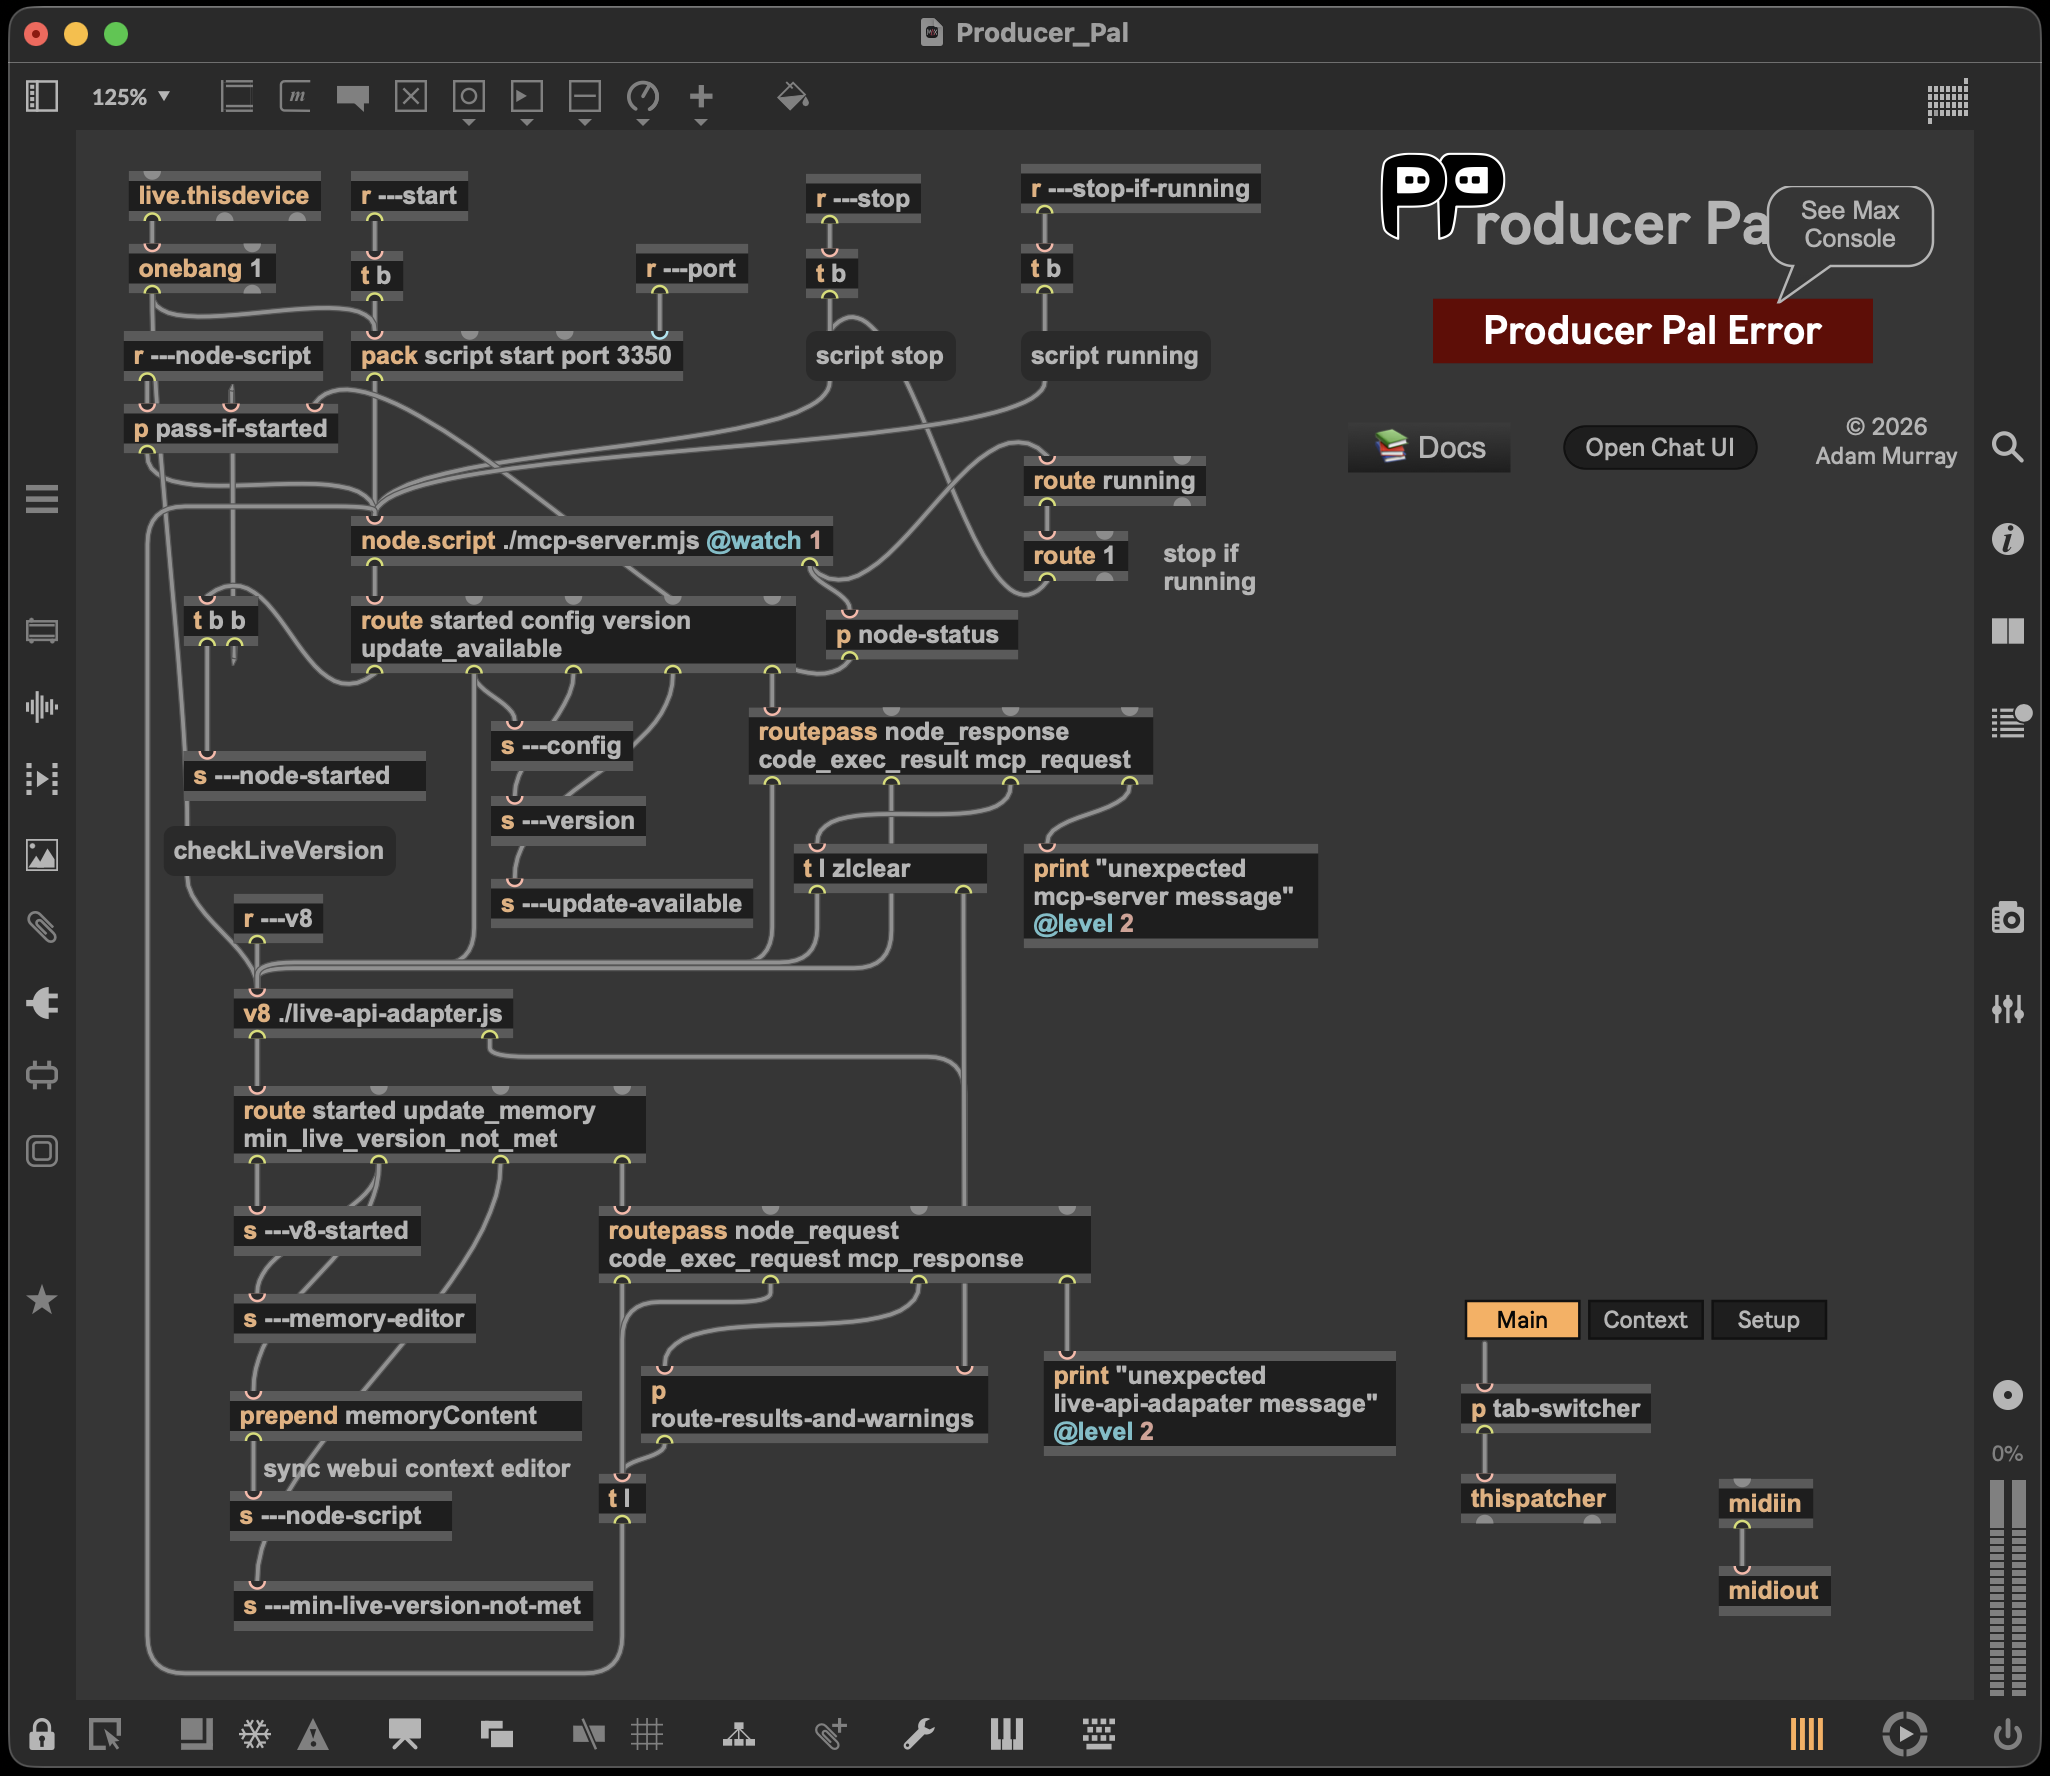
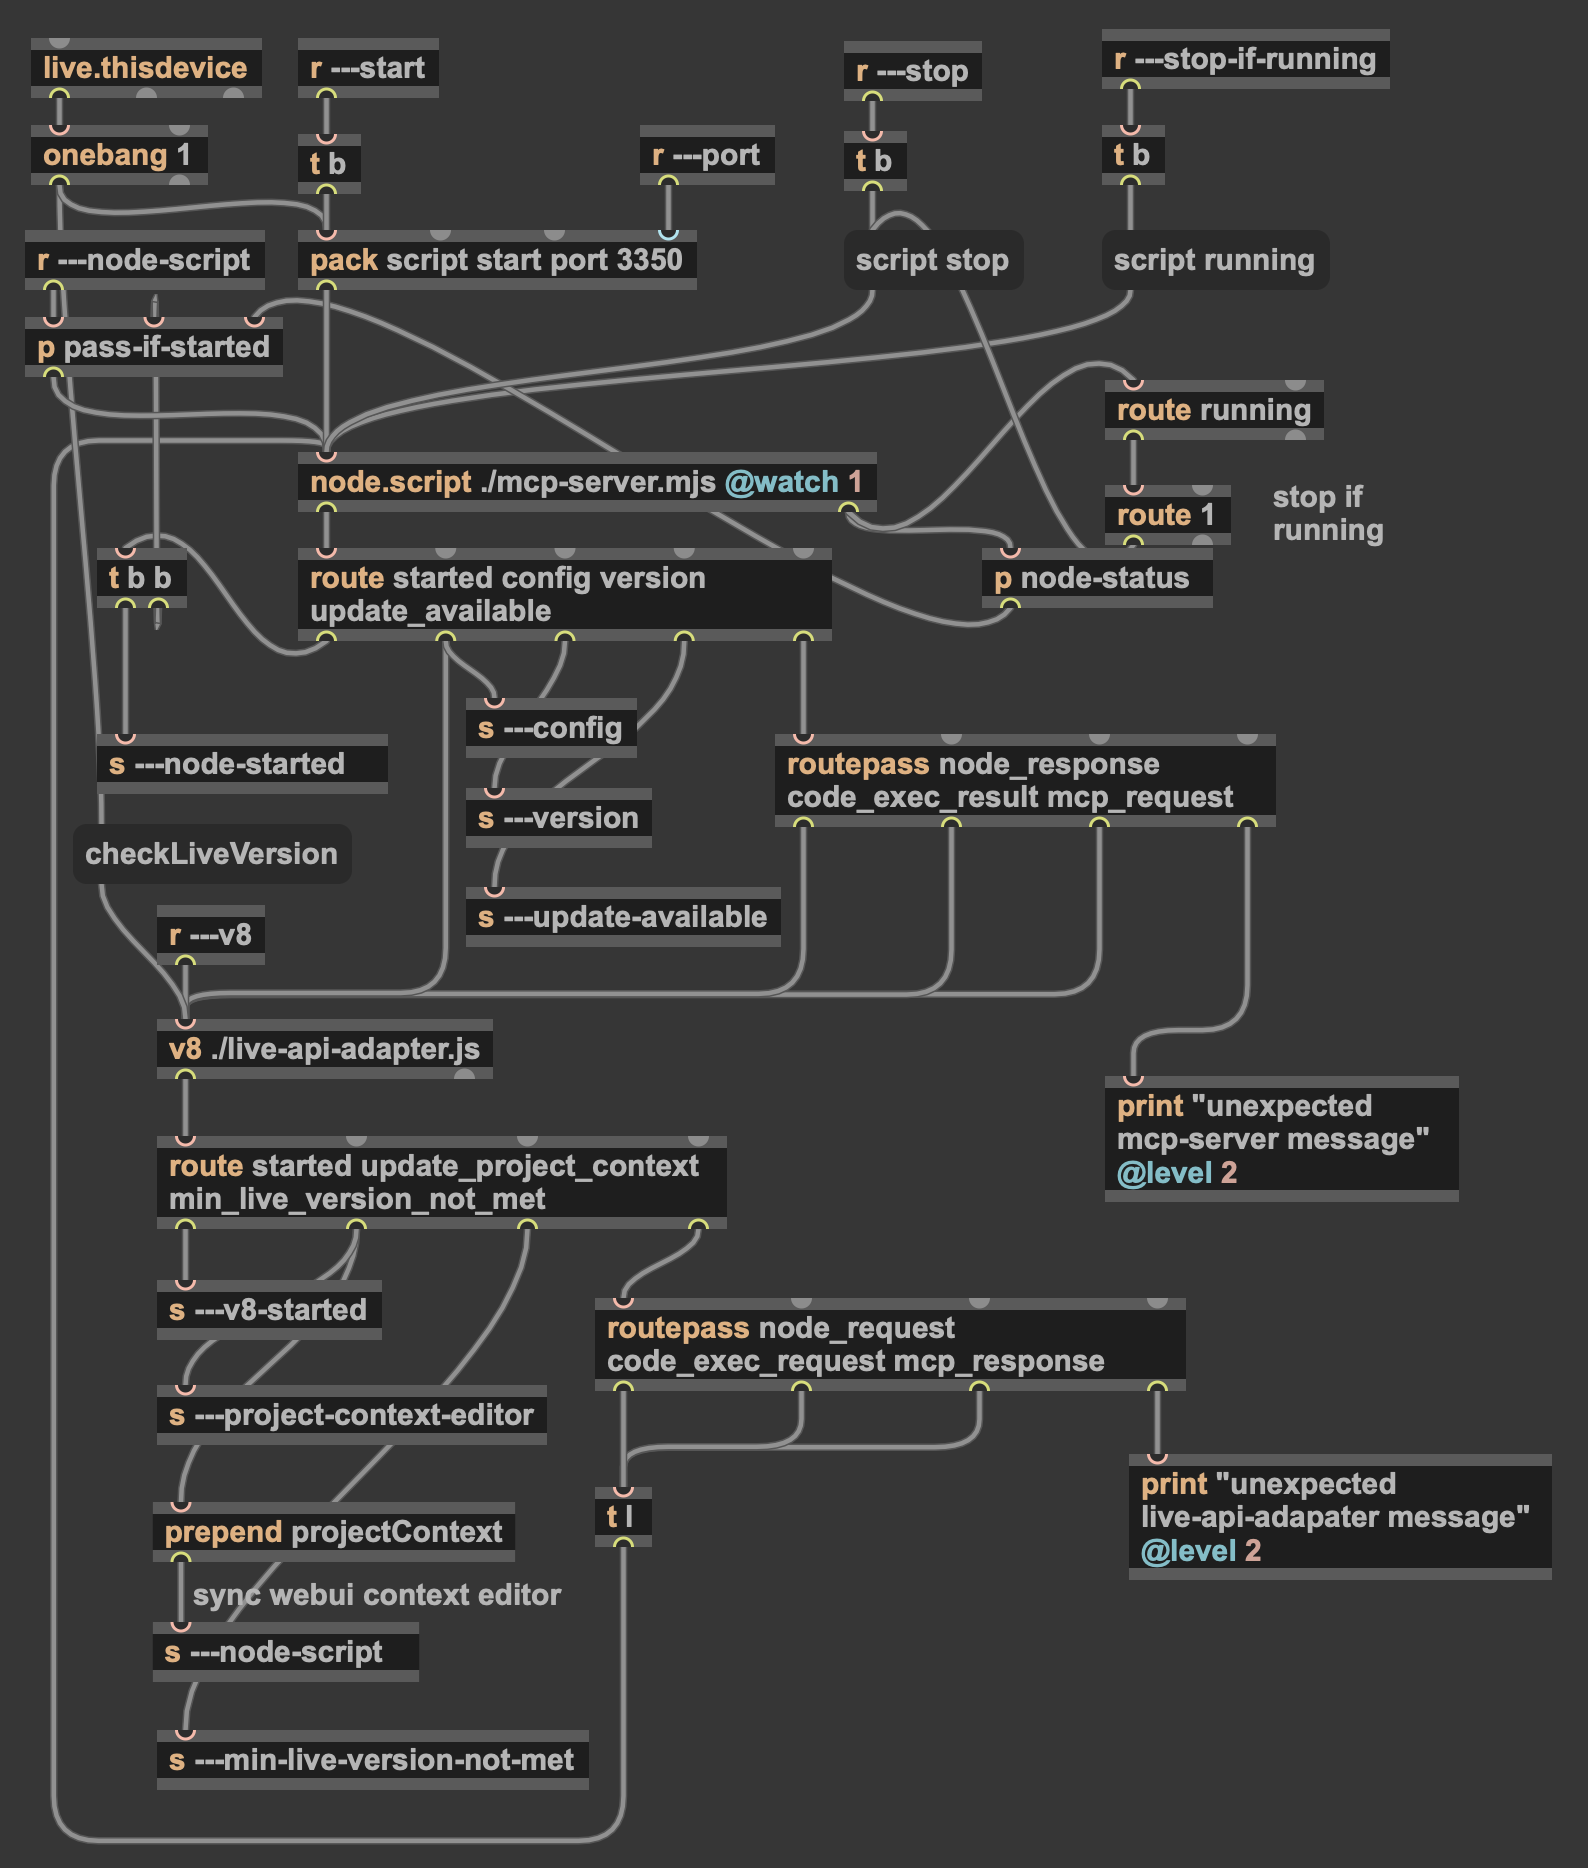
refactor(patch): take out the warning buffer V8 replaced
Warnings used to be collected in the device patch by
`p route-results-and-warnings` — a `list.group 1000` fed by v8 outlet 1,
joined onto whatever response came out next. V8 buffers per request now,
so all that machinery still held was a duplicate of every warning, which
`sendResponse` had to wipe before each send or it would double-report.

The subpatcher and the `t l zlclear` that fed it are gone, mcp_request and
mcp_response run straight through, and the wipe comes out with them.
Outlet 1 still carries every warning, now wired to nothing — hang a print
on it when you want to watch warnings live.

The main-patch screenshot showed the deleted objects, and the
memory -> project-context rename before that, so it is retaken.

Changed region(s): [[0.0, 0.0, 1.0, 1.0]]

diff --git a/src/live-api-adapter/tests/warning-correlation.test.ts b/src/live-api-adapter/tests/warning-correlation.test.ts
@@ -120,23 +120,21 @@ describe("warning correlation", () => {
     expect(warningsSentFor("req-quiet")).toStrictEqual([]);
   });
 
-  it("wipes the patch's buffer before responding, so nothing rides along", async () => {
+  it("still mirrors a warning to outlet 1, and wipes no buffer", async () => {
     vi.mocked(readTrack).mockImplementation(() => {
       warn("mine");
 
       return {};
     });
 
-    await mcp_request("req-wipe", "ppal-read-track", "{}");
+    await mcp_request("req-debug", "ppal-read-track", "{}");
 
     const calls = vi.mocked(outlet).mock.calls;
-    const zlclear = calls.findIndex(
-      (args) => args[0] === 1 && args[1] === "zlclear",
-    );
-    const response = calls.findIndex((args) => args[1] === "mcp_response");
 
-    expect(zlclear).toBeGreaterThanOrEqual(0);
-    expect(zlclear).toBeLessThan(response);
+    // Outlet 1 is a debug stream now: the patch buffers nothing, so there is
+    // nothing to clear before the response goes out.
+    expect(calls).toContainEqual([1, "mine"]);
+    expect(calls.some((args) => args[1] === "zlclear")).toBe(false);
   });
 
   it("does not attach a warning raised with no request in flight", async () => {

diff --git a/src/shared/max/v8-max-console.ts b/src/shared/max/v8-max-console.ts
@@ -112,9 +112,8 @@ export const error = (...args: unknown[]): void => {
  * response to append to, so it goes to the Max console — the user can act on it,
  * and no other request's result gets polluted.
  *
- * Outlet 1 still carries every warning as a patch-level debug stream. The patch
- * buffers those, and the response path wipes that buffer before it sends, so this
- * copy never reaches the AI. See sendResponse() in live-api-adapter.ts.
+ * Outlet 1 still carries every warning, as a debug stream nothing in the patch
+ * is wired to — hang a print on it when you need to watch warnings live.
  *
  * @param args - Values to log as warnings
  */

diff --git a/src/live-api-adapter/live-api-adapter.ts b/src/live-api-adapter/live-api-adapter.ts
@@ -358,12 +358,6 @@ function sendResponse(
   result: object,
   warnings: string[],
 ): void {
-  // The patch buffers everything that reached outlet 1 and joins it onto this
-  // message. Wipe that buffer first: it holds a duplicate of every warning in
-  // `warnings`, plus any raised with no request in flight, and appending either
-  // would double-report or misattribute. `warnings` is the only source now.
-  outlet(1, "zlclear");
-
   const jsonString = JSON.stringify(result);
   const { chunks, tooLargeError } = planChunks(jsonString);
 
